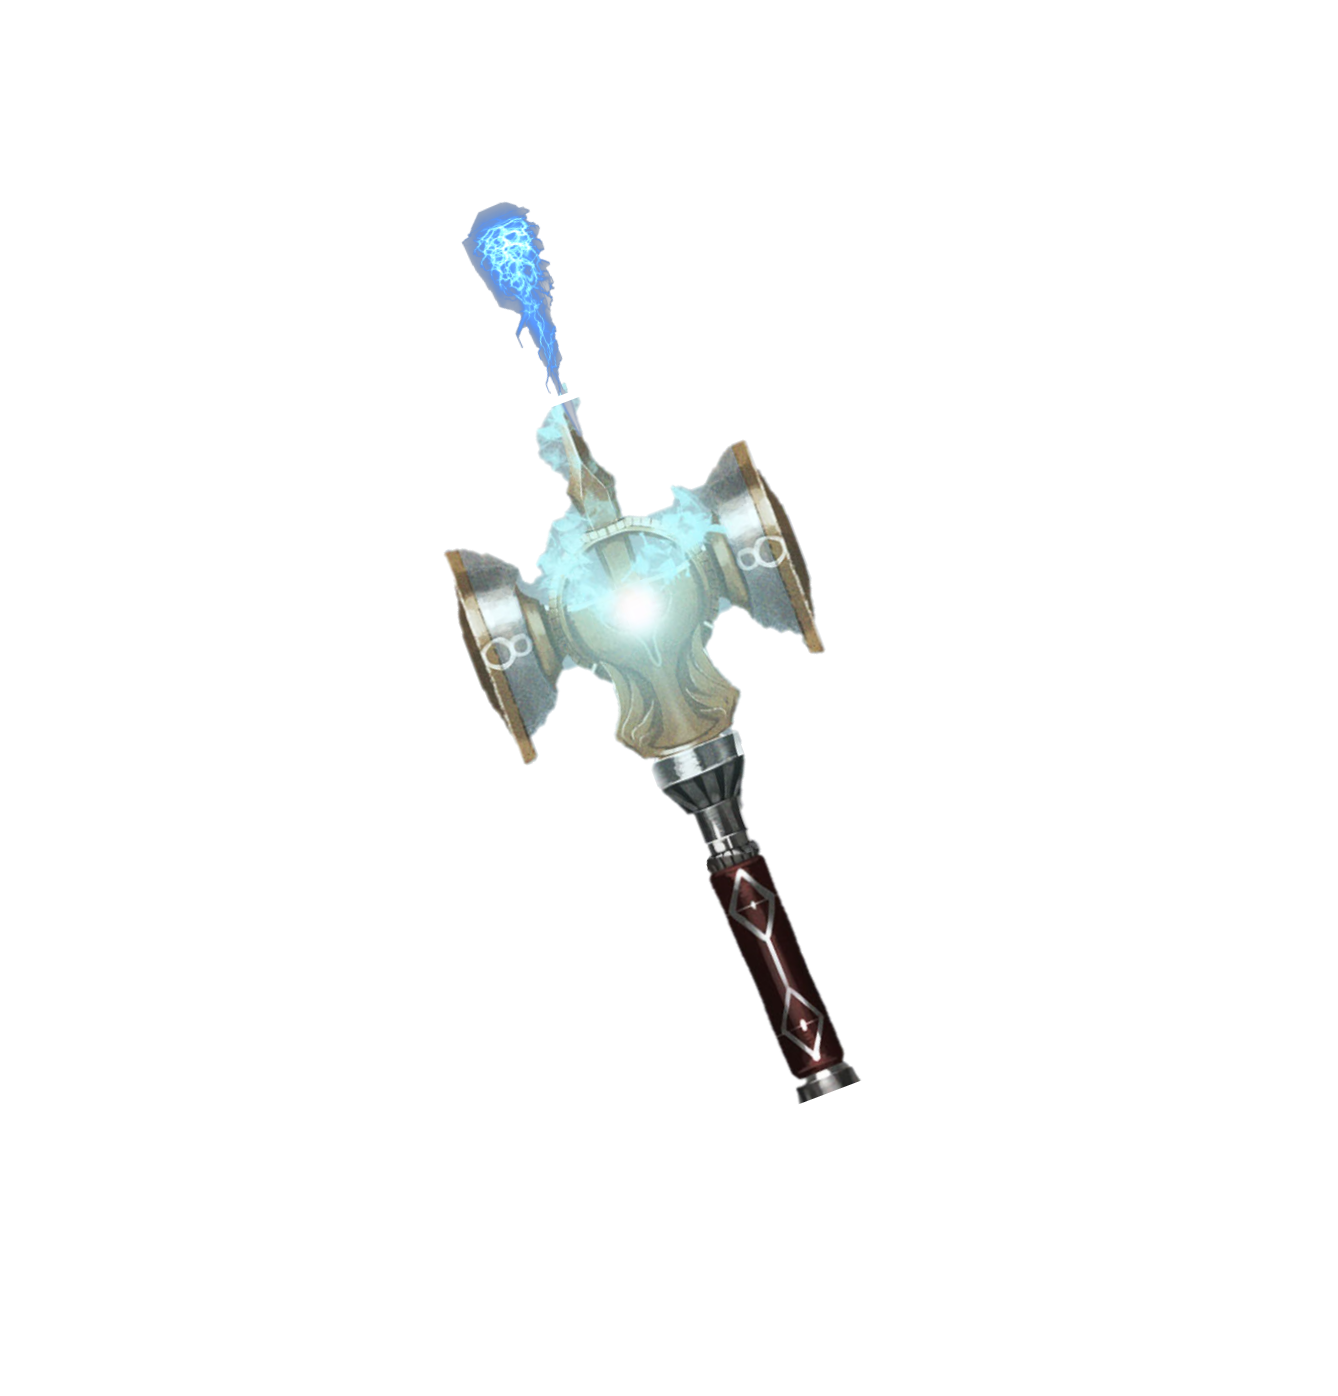
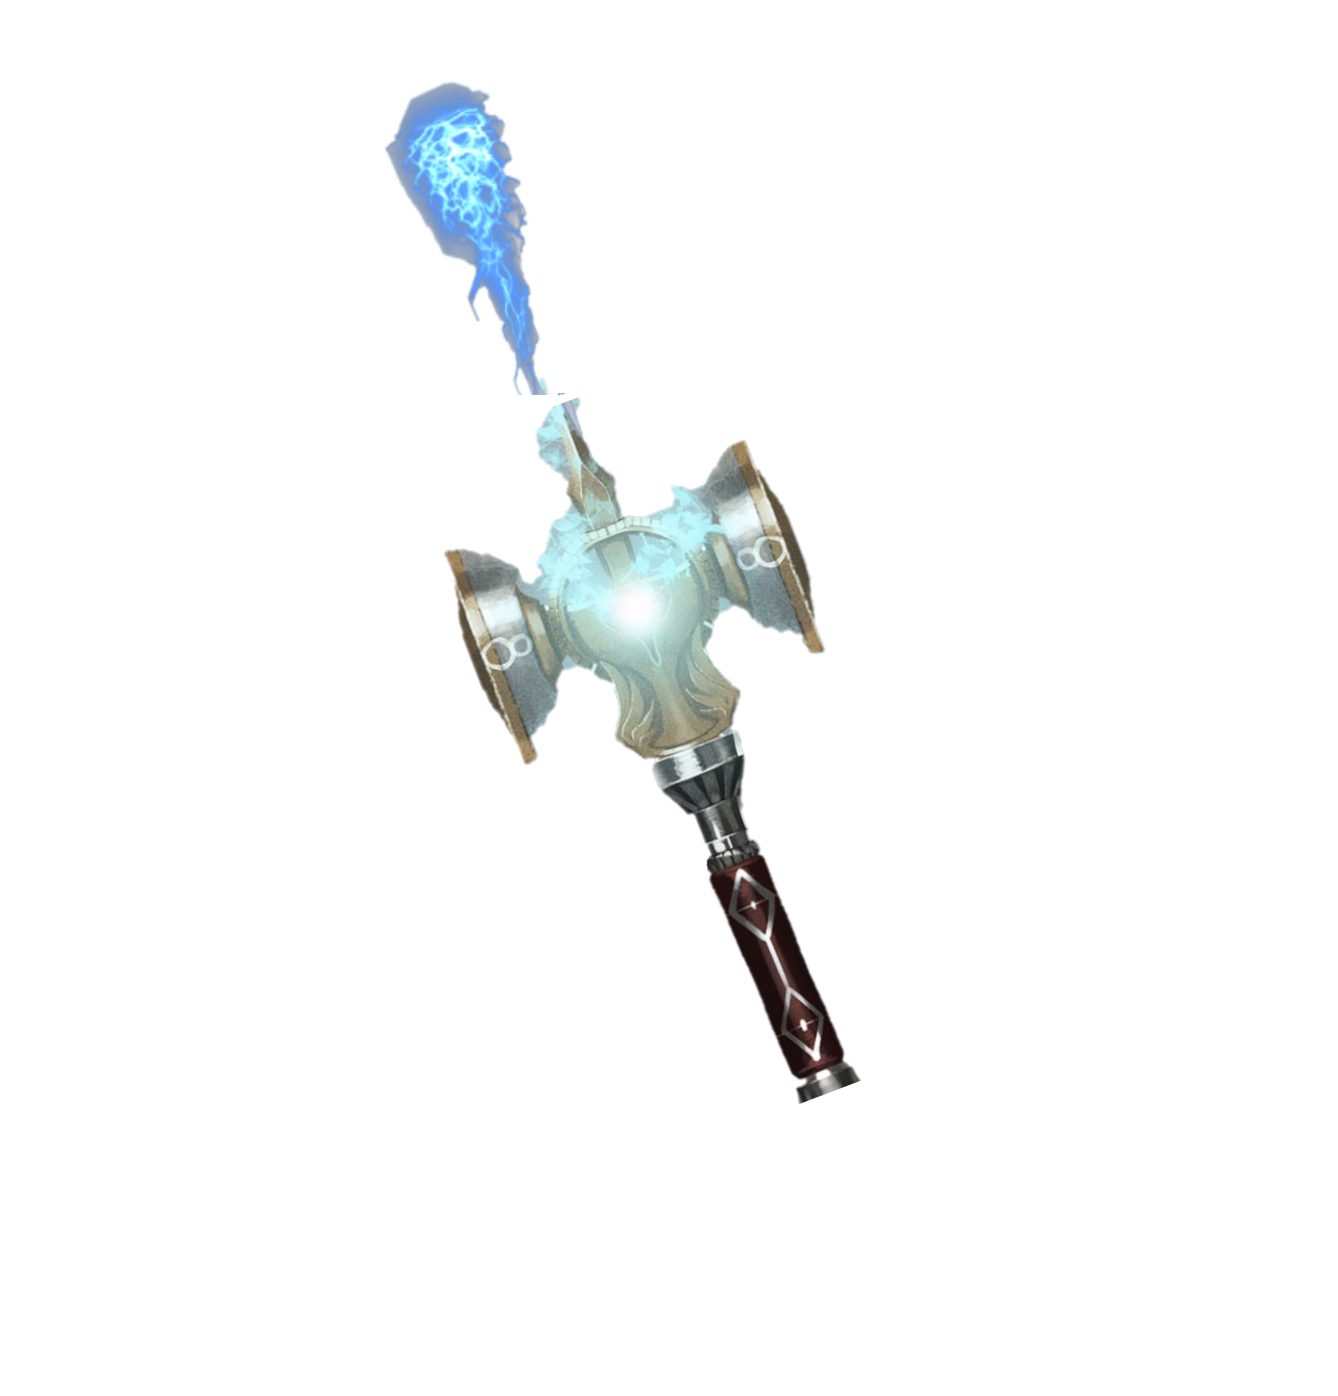
wep animation done

Changed region(s): [[0.2758, 0.0616, 0.429, 0.308]]

diff --git a/GUI/Drawing.py b/GUI/Drawing.py
@@ -1,6 +1,6 @@
 import pygame
 
-from .Memo import Memo
+# from .Memo import Memo
 from .Settings import *
 from .Utility import create_textline
 
@@ -16,7 +16,8 @@ class Drawing:
         self.player = player_controls
         self.hero = hero
         self.sprites = sprites
-        self.weapon_animate = 0
+        self.weapon_animate = 1
+        self.wep_time = 0
         self.textures = {
                         #  'floor': pygame.image.load('GUI/img/floor.jpg').convert(),
                          'ceiling': pygame.image.load('GUI/img/ceiling3.jpg').convert(),
@@ -28,7 +29,7 @@ class Drawing:
                          'Warrior0': pygame.image.load('GUI/img/sword0.png').convert_alpha(),
                          'Warrior1': pygame.image.load('GUI/img/sword1.png').convert_alpha(),
                          'Warrior2': pygame.image.load('GUI/img/sword2.png').convert_alpha(),
-                         'Warrior3': pygame.image.load('GUI/img/sword2.png').convert_alpha(),
+                         'Warrior3': pygame.image.load('GUI/img/sword3.png').convert_alpha(),
                          'Priest0': pygame.image.load('GUI/img/staff0.png').convert_alpha(),
                          'Priest1': pygame.image.load('GUI/img/staff1.png').convert_alpha(),
                          'Priest2': pygame.image.load('GUI/img/staff2.png').convert_alpha(),
@@ -36,7 +37,7 @@ class Drawing:
                          'Thief0': pygame.image.load('GUI/img/dagger0.png').convert_alpha(),
                          'Thief1': pygame.image.load('GUI/img/dagger1.png').convert_alpha(),
                          'Thief2': pygame.image.load('GUI/img/dagger2.png').convert_alpha(),
-                         'Thief3': pygame.image.load('GUI/img/dagger2.png').convert_alpha(),                         
+                         'Thief3': pygame.image.load('GUI/img/dagger3.png').convert_alpha(),                         
                         #  'wall': pygame.image.load('GUI/img/wall_vision2.png').convert_alpha()
                          }
 
@@ -54,19 +55,26 @@ class Drawing:
                 self.screen.blit(object, object_pos)
 
     def weapon_and_ui(self, clock):
-        self.weapon()
+        self.weapon_animation()
         self.hero_health_bar()
         self.enemy_health_bar()
         self.inventory()
         self.mini_map()
         self.fps_display(clock)
 
-    def weapon(self):
+    def weapon_animation(self):
         # TODO change weapon "S" based on hero's class
         wep_pos = (WIDTH * 2/5, HEIGHT - 280)
         wep_size = (HALF_WIDTH, HALF_HEIGHT)
+        
+        cool_down = 3
+
         if self.player.attacking and self.weapon_animate < 3:
-            self.weapon_animate += 1 
+            if self.wep_time < cool_down:
+                self.wep_time += 1
+            else:
+                self.weapon_animate += 1
+                self.wep_time = 0
         else: 
             self.weapon_animate = 0
 

diff --git a/Main.py b/Main.py
@@ -87,6 +87,7 @@ class Main:
     def game_loop(self):
         clock = pygame.time.Clock()
         while True:
+            delta_time = clock.tick(FPS) / 1000
             self.pause_on = self.player_controls.movement() #TODO improve pause logic
 
             if self.pause_on:
@@ -105,7 +106,7 @@ class Main:
             self.memo.message_box()
             self.drawing.weapon_and_ui(clock)
             pygame.display.flip()
-            clock.tick(FPS)
+            
 
 if __name__ == '__main__':
     while True:
